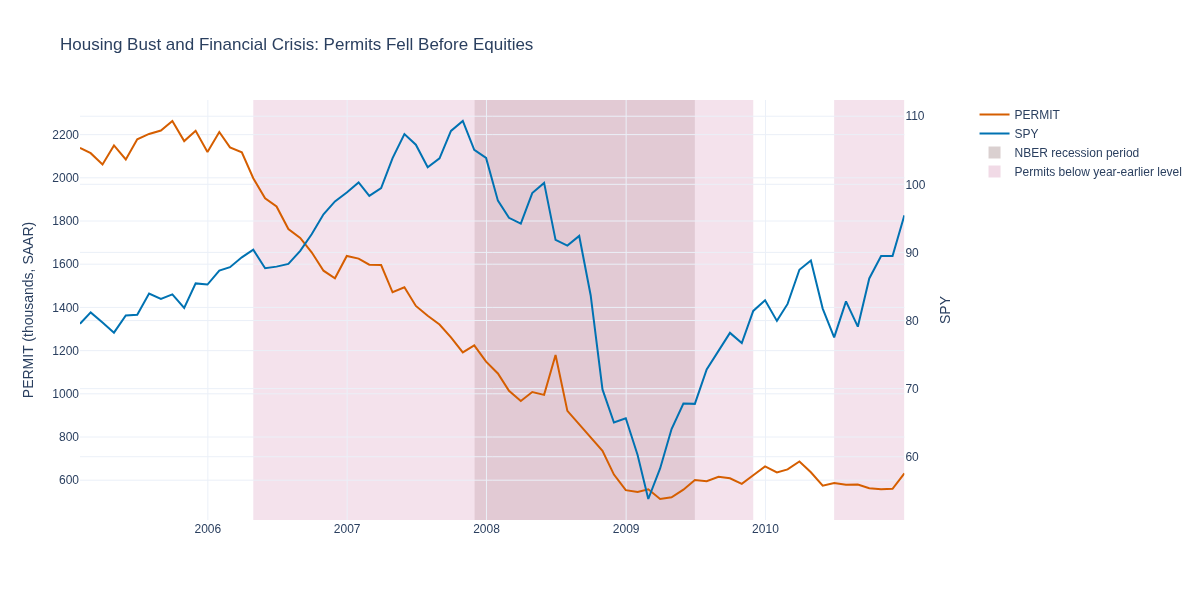
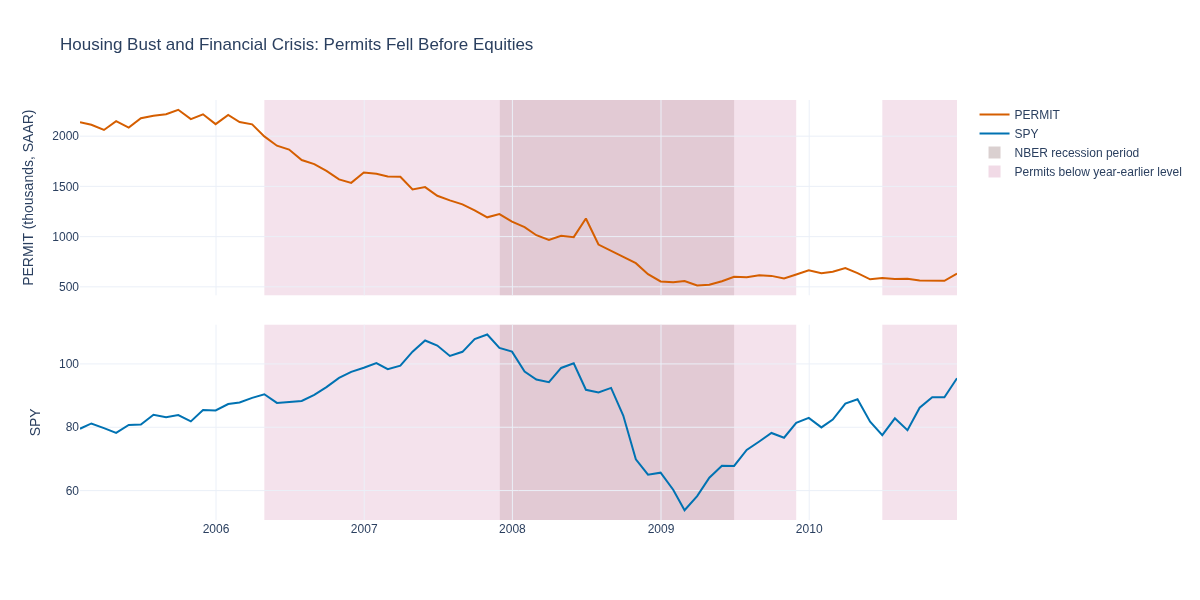
permit_spy: history zooms as stacked panels via harness.charts.zoom_dual_panel (VIZ-V1 / GATE-DP1 v2); PNGs re-rendered
Claude-Session: https://claude.ai/code/session_013QJi3cY4HgnCo3223v9q3m

diff --git a/scripts/generate_charts_permit_spy.py b/scripts/generate_charts_permit_spy.py
@@ -292,6 +292,8 @@ def chart_history_zoom(slug: str, title: str, start: str, end: str) -> None:
     fig.update_layout(title=title, template="plotly_white", height=430, hovermode="x unified")
     fig.update_yaxes(title_text="PERMIT (thousands, SAAR)", secondary_y=False)
     fig.update_yaxes(title_text="SPY", secondary_y=True)
+    from harness.charts import zoom_dual_panel  # VIZ-V1: indicator and target in stacked panels
+    fig = zoom_dual_panel(fig)
     save(f"history_zoom_{slug}", fig, f"{title}; gray bands are NBER recessions and pink bands mark permits below their year-earlier level.", ["data/permit_spy_monthly_latest.parquet"])
 
 
